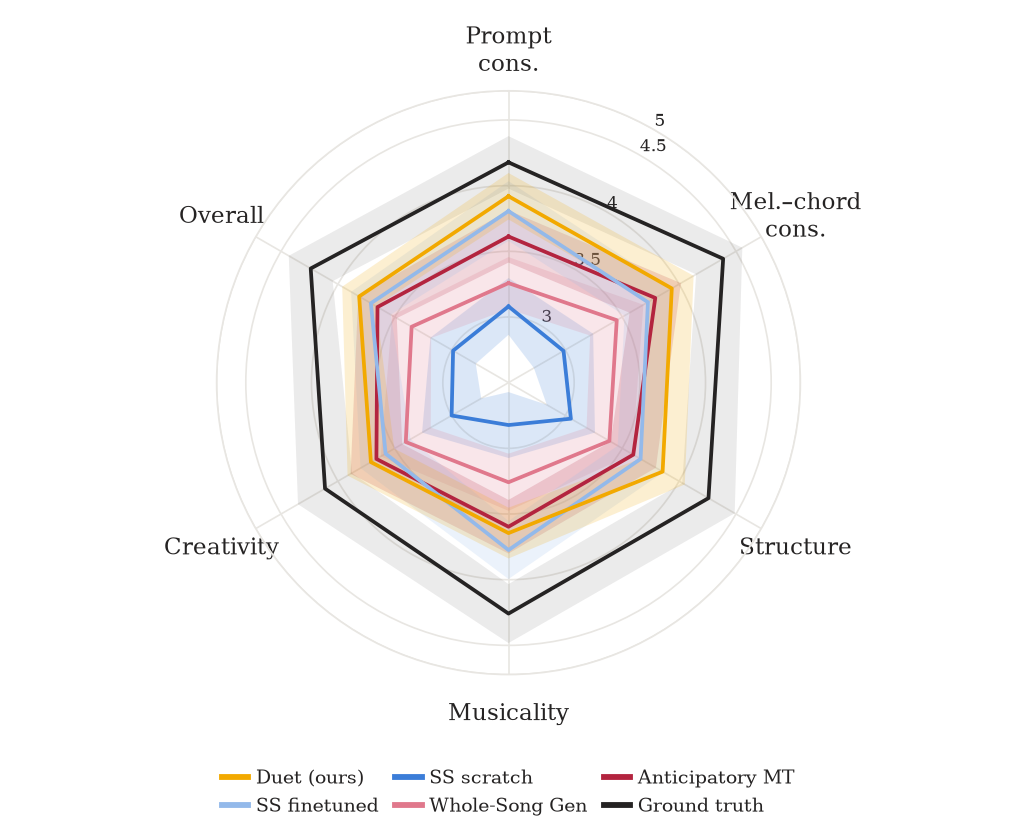
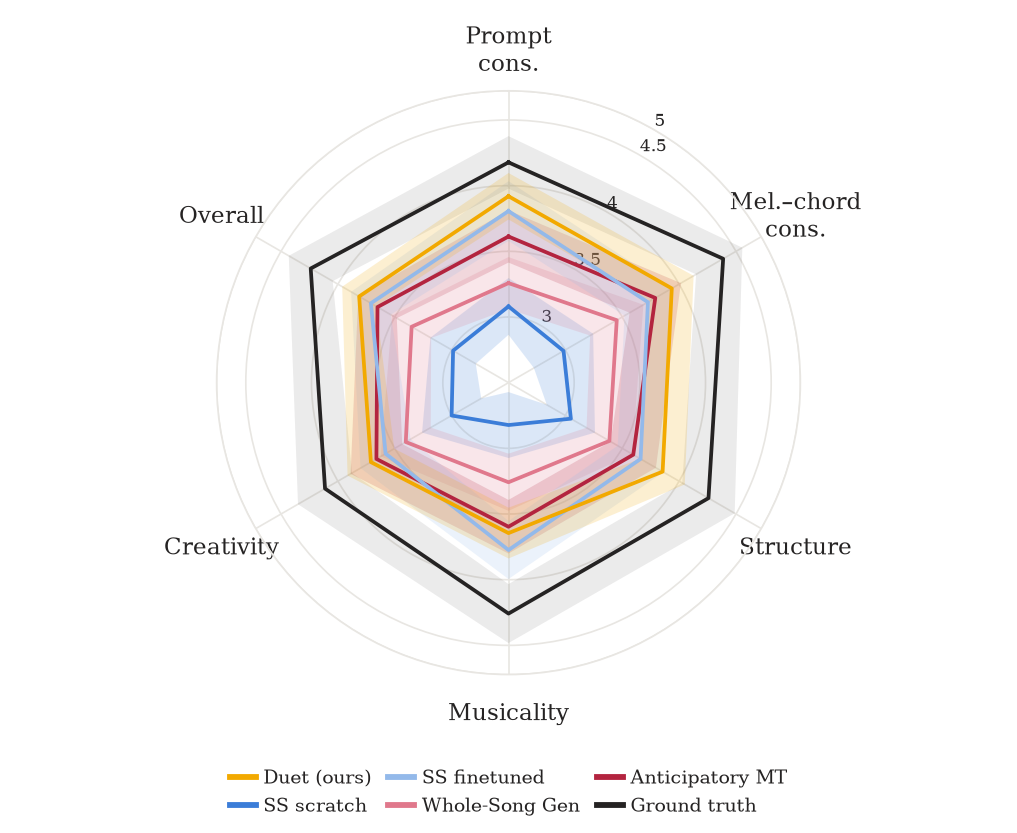
Subjective figures: system order ours, scratch, finetuned, Whole-Song Gen, AMT
Claude-Session: https://claude.ai/code/session_012w7PFbJyWP4meVE3CJpfno

Changed region(s): [[0.2134, 0.9052, 0.5792, 0.9988], [0.6096, 0.9052, 0.7925, 0.9988]]

diff --git a/midi_yinyang/figures/plot_subjective_spider.py b/midi_yinyang/figures/plot_subjective_spider.py
@@ -144,7 +144,7 @@ def main():
         # no vertex markers; significance is stated in the text
         ax.plot(ang_c, m, color=col, lw=0.9, zorder=3)
         handles[s] = Line2D([0], [0], color=col, lw=1.4, label=disp)
-    leg_order = ['Duet (alt commit)', 'S-finetune', 'S-scratch', 'Whole-song', 'AMT', 'GT']
+    leg_order = ['Duet (alt commit)', 'S-scratch', 'S-finetune', 'Whole-song', 'AMT', 'GT']
     fig.legend([handles[s] for s in leg_order], [handles[s].get_label() for s in leg_order],
                ncol=3, loc='lower center', bbox_to_anchor=(0.5, 0.0), frameon=False,
                fontsize=FS_LEGEND - 2.5, handletextpad=0.4, columnspacing=0.9,

diff --git a/midi_yinyang/figures/plot_subjective_compact.py b/midi_yinyang/figures/plot_subjective_compact.py
@@ -123,7 +123,7 @@ def main():
     for sp in ('left', 'bottom'):
         ax.spines[sp].set_color(INK)
     ax.tick_params(length=1.6, width=0.3, colors=INK)
-    order = ['Duet (alt commit)', 'S-finetune', 'S-scratch', 'Whole-song', 'AMT', 'GT']
+    order = ['Duet (alt commit)', 'S-scratch', 'S-finetune', 'Whole-song', 'AMT', 'GT']
     # figure-level legend, centred on the full width above the axes so no
     # entry is clipped; the layout below leaves it the top 14% of the height
     fig.legend([handles[s][0] for s in order], [handles[s][1] for s in order], ncol=6,

diff --git a/midi_yinyang/figures/plot_subjective_bars.py b/midi_yinyang/figures/plot_subjective_bars.py
@@ -35,7 +35,7 @@ from plot_subjective_spider import SYSTEM_COLOR, AXIS_LABEL  # noqa: E402
 
 # bars left to right within a group, and the legend order: ground truth
 # first as the reference, then ours, then the baselines
-ORDER = ['GT', 'Duet (alt commit)', 'S-finetune', 'S-scratch', 'Whole-song', 'AMT']
+ORDER = ['GT', 'Duet (alt commit)', 'S-scratch', 'S-finetune', 'Whole-song', 'AMT']
 
 
 def main():
